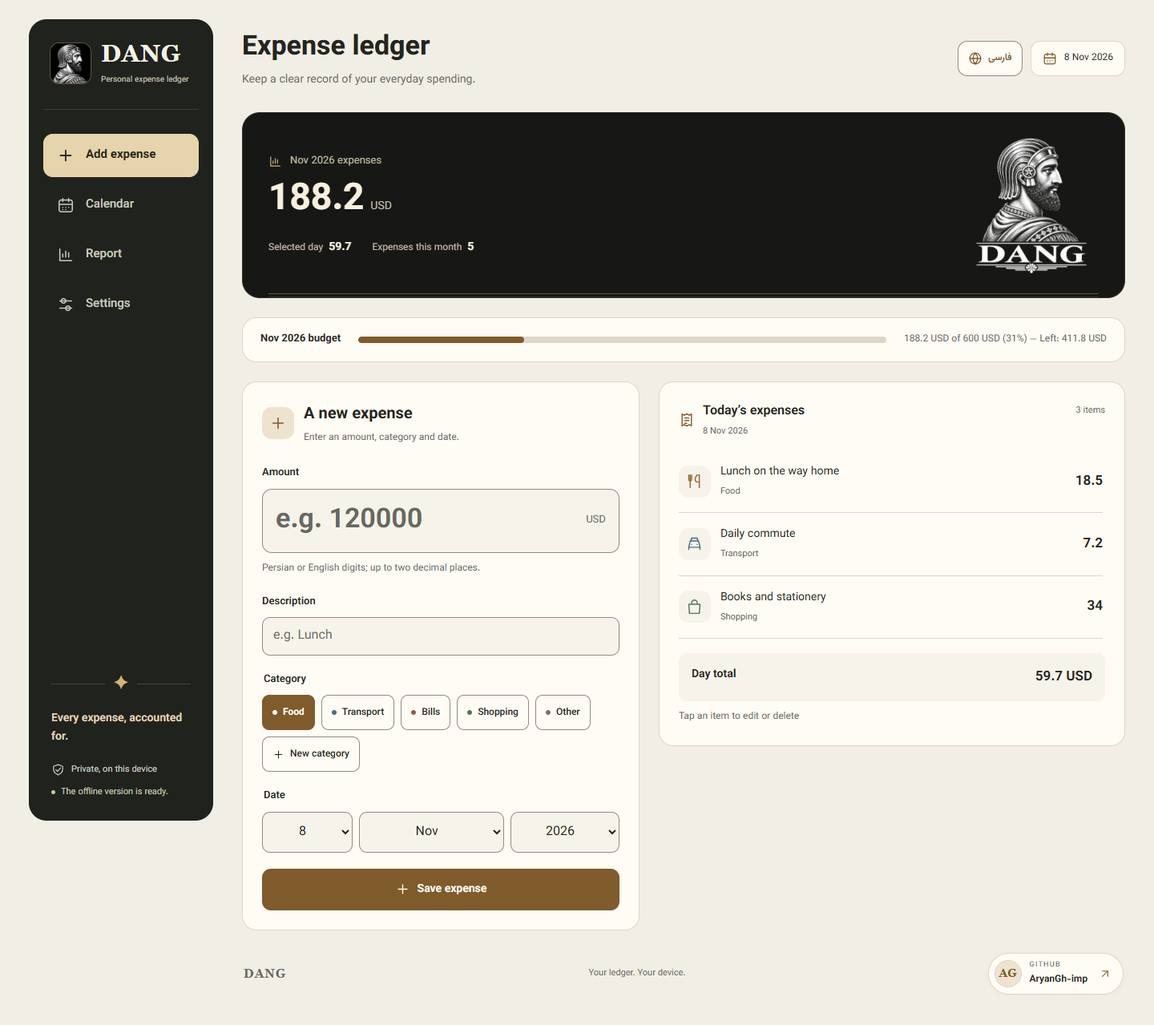
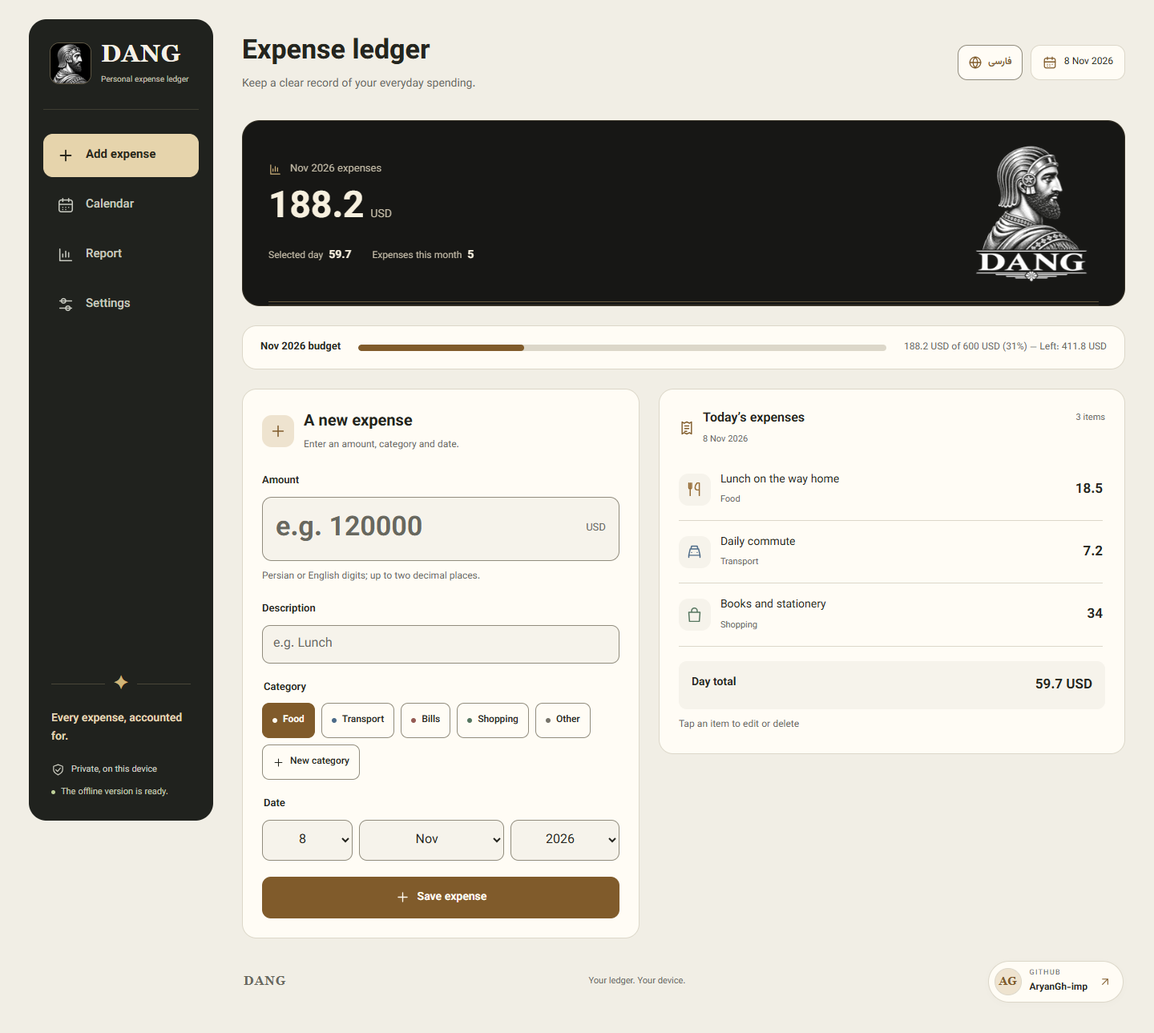
docs(release): document DANG 1.0.1 quality improvements and deployment
Refresh both README galleries and explain startup, responsive assets, privacy boundaries, test coverage, release gates, production verification and rollback. Preserve v1.0.0 history and database/backup compatibility.

diff --git a/docs/deployment.md b/docs/deployment.md
@@ -2,13 +2,13 @@
 
 ## Target and prerequisites
 
-Repository: [AryanGh-imp/DANG](https://github.com/AryanGh-imp/DANG). Maintainer: [AryanGh-imp](https://github.com/AryanGh-imp). Expected site URL: `https://aryangh-imp.github.io/DANG/`.
+Repository: [AryanGh-imp/DANG](https://github.com/AryanGh-imp/DANG). Maintainer: [AryanGh-imp](https://github.com/AryanGh-imp). Production site: `https://aryangh-imp.github.io/DANG/`.
 
-The first release is **1.0.0**, identified by the annotated Git tag `v1.0.0`. Release numbering is separate from the preserved internal storage and backup format versions.
+The current maintenance release is **1.0.1**, identified by the annotated Git tag `v1.0.1`. Preserve the first release's `v1.0.0` tag. Release numbering is separate from the unchanged internal storage and backup format versions.
 
-The project is prepared locally; a prepared checkout is not evidence of a successful hosted deployment. The first publication requires a reviewed push and GitHub Actions execution.
+A local build or push is not evidence of successful deployment. Check the Pages workflow conclusion and the actual hosted assets before announcing a release.
 
-Before the first deployment:
+Before a release:
 
 1. Review the local commit history and application preview.
 2. Confirm `origin` points to the intended repository and `main` is the release branch.
@@ -29,13 +29,28 @@ npm run test:pages
 git status --short
 ```
 
-When the maintainer is ready to publish, run `git push -u origin main`. This command is an explicit publication step; preparing documentation or committing locally does not perform it.
+Audit the entire diff and tracked content for private records, backups, credentials and local artifacts. The Cloudflare site token is an intended public identifier. Publish only after the checks pass; preserve failing results and document any target that is not met. A critical functional or security failure blocks publication.
 
-Publish the reviewed release tag separately with `git push origin v1.0.0`. The tag records the release commit; the Pages workflow deploys `main` rather than tag pushes.
+Commit the reviewed changes, then publish the annotated release tag and `main`:
+
+```sh
+git tag -a v1.0.1 -m "DANG v1.0.1 — Quality, Accessibility & Performance Improvements"
+git push origin main
+git push origin v1.0.1
+gh run list --workflow pages.yml --branch main
+```
+
+The tag must point to the final release commit. Pages deploys `main`, not tag pushes. Wait for the workflow to succeed and complete the production checks below before creating the GitHub Release:
+
+```sh
+gh release create v1.0.1 --verify-tag --title "DANG v1.0.1 — Quality, Accessibility & Performance Improvements" --notes-file RELEASE_NOTES_PATH
+```
+
+`RELEASE_NOTES_PATH` denotes a prepared file outside the published artifact. Notes should summarize actual changes, measured validation and known limitations; never claim dashboard ingestion without seeing it. Repository visibility is already public.
 
 ## Workflow structure
 
-`ci.yml` runs for pull requests, non-main branch pushes, manual runs, and reusable workflow calls. It checks static references, syntax, store behavior, and the release build. Chromium and WebKit browser jobs run after validation. Chromium also tests the assembled Pages artifact. Failed jobs retain diagnostic artifacts.
+`ci.yml` runs for pull requests, non-main branch pushes, manual runs, and reusable workflow calls. It checks static references, syntax, store behavior, and the release build. Chromium and WebKit browser jobs run after validation, including cold starts, WCAG 2.1 A label checks, optional analytics failure, and upgrades from the actual `v1.0.0` tag. Browser checkouts fetch release history. Ordinary tests isolate the beacon; dedicated integration tests use the unchanged official script with a local collector to avoid polluting production analytics. Chromium also tests the assembled Pages artifact. Failed jobs retain diagnostic artifacts.
 
 `pages.yml` runs for pushes to `main` and manual runs on `main`. It calls the reusable CI workflow, then assembles `dist/`, configures Pages, uploads the Pages artifact, and deploys it. Deployment waits for every validation and browser job to pass. Official actions are pinned to verified commit hashes with their release versions recorded in comments.
 
@@ -75,6 +90,16 @@ The canonical URL and sharing image in `index.html` target the Pages URL above. 
 ## Rollback
 
 Revert the faulty source commit on `main` and publish the revert through the same CI gate. The build fingerprint changes with the reverted content; keep the current update controller/build tooling when reverting a feature. For direct source deployments, give the worker a new source version. Preserve backup compatibility and test changes involving stored records before publication.
+
+Do not move a published tag or delete user storage to force a rollback. Existing installations receive the reverted release through the same update prompt. Keep the 1.0.1 display bootstrap if reverting unrelated features; its mirror is only a display hint and the database remains authoritative.
+
+## Production verification
+
+Verify HTTPS, the `/DANG/` canonical URL, `application-version` metadata and runtime file bytes against the final commit. Check that the hosted worker has the build fingerprint and registers with the `/DANG/` scope. Exercise English/Gregorian and Persian/Jalali, saved records, navigation, offline reload and reconnection in isolated profiles. Where possible, keep an isolated 1.0.0 session with synthetic records open across deployment and apply the downloaded update; confirm records, preferences and drafts survive.
+
+Run Lighthouse mobile and desktop against the assembled artifact or production, without analytics stubs or rendering instrumentation. Record performance, CLS and the other categories in the release QA report. A simulated mobile profile does not establish physical iPhone/Android installation behavior.
+
+Inspect the live beacon response and collector requests, including navigation and absence of synthetic financial markers. Query-only view navigation is tracked but Cloudflare strips query/hash from reported URLs, so views aggregate under `/DANG/`. Confirm authenticated dashboard visits separately; network acceptance alone does not establish dashboard ingestion. Blocked/offline analytics may produce a browser resource diagnostic but must never cause an application exception or prevent saving. See [privacy](privacy.md).
 
 ## Repository presentation
 

diff --git a/README.fa.md b/README.fa.md
@@ -4,7 +4,7 @@
 
 # DANG — دفتر هزینهها
 
-**اولین نسخهٔ پروژه: 1.0.0** · تگ Git: `v1.0.0`
+**نسخهٔ فعلی پروژه: 1.0.1** · تگ Git: `v1.0.1`
 
 [English README](README.md) · سازنده: [AryanGh-imp](https://github.com/AryanGh-imp) · [مخزن DANG](https://github.com/AryanGh-imp/DANG)
 
@@ -35,7 +35,7 @@ npm run serve
 
 سپس [نسخهٔ محلی](http://127.0.0.1:4173/Dang/) را باز کنید.
 
-برای GitHub Pages در Settings → Pages گزینهٔ Source: GitHub Actions را انتخاب کنید. پس از بررسی نهایی و پوش شاخهٔ `main`، workflow تستها را اجرا میکند و فقط خروجی `dist/` را منتشر میکند. مسیر هدف [سایت DANG](https://aryangh-imp.github.io/DANG/) است و پس از انتشار موفق فعال میشود. فایلهای توسعه، مثال پشتیبان و اطلاعات Git وارد خروجی انتشار نمیشوند. همهٔ مسیرهای داخلی برنامه نسبیاند.
+نسخهٔ آنلاین در [سایت DANG](https://aryangh-imp.github.io/DANG/) در دسترس است. برای انتشار روی GitHub Pages، گزینهٔ Settings → Pages → Source: GitHub Actions را انتخاب کنید. پس از پوش شاخهٔ `main`، workflow تستها را اجرا میکند و فقط خروجی `dist/` را منتشر میکند. فایلهای توسعه، مثال پشتیبان و اطلاعات Git وارد خروجی انتشار نمیشوند. همهٔ مسیرهای داخلی برنامه نسبیاند.
 
 ```sh
 npm run check
@@ -69,13 +69,17 @@ tests/                      بررسی رفتار و دسترسپذیری
 
 - دادهها در IndexedDB همین مرورگر و مخصوص مسیر این برنامه ذخیره میشوند. تراکنشها مانع بازنویسی آرایهٔ قدیمی از تب دیگر میشوند. ویرایش همزمان یک هزینه پیام تعارض میدهد.
 - در اولین اجرای نسخهٔ جدید، دادههای `expenses-v1` و `expenses-settings-v1` از localStorage منتقل میشوند. اصل دادههای قدیمی حذف نمیشود و نسخهٔ اصلی در تنظیمات قابل دانلود است. دادههای نامعتبر برای نمایش پاکسازی میشوند و اصل آنها برای بازیابی نگه داشته میشود.
-- پس از نمایش «نسخهٔ آفلاین آماده است»، صفحه بدون اینترنت نیز باز میشود. Service Worker فقط فایلهای همین پروژه را کش میکند؛ هیچ CDN یا درخواست شخص ثالث لازم نیست.
+- پس از نمایش «نسخهٔ آفلاین آماده است»، صفحه بدون اینترنت نیز باز میشود. Service Worker فقط فایلهای همین پروژه را کش میکند؛ اسکریپت آمارگیری در کش قرار ندارد و برای کارکرد برنامه لازم نیست.
 - برنامه در آغاز، هنگام بازگشت اینترنت یا بازگشت به صفحه و هر پنج دقیقه در صفحهٔ باز، نسخهٔ تازه را بررسی میکند. پس از دانلود کامل، دکمهٔ «بهروزرسانی برنامه» ظاهر میشود؛ با زدن آن، نسخهٔ جدید بدون نیاز به Ctrl+F5 باز میشود و هزینهها و تنظیمات ذخیرهشده حفظ میشوند. ورودی ناتمام یا پنجرهٔ ویرایش باز، بارگذاری مجدد را به تأخیر میاندازد؛ تبهای دیگر هم ناخواسته رفرش نمیشوند.
 - خروجی GitHub Pages از محتوای فایلهای منتشرشده شناسهٔ کش میسازد؛ تغییر ویژگیها بهصورت خودکار شناسهٔ تازه میگیرد. اگر فایلهای سورس را مستقیم برای توسعه سرو میکنید، `VERSION` در `sw.js` را هم تغییر دهید. کش برنامه از دادههای هزینه جداست.
 - ماندگاری دائمی تضمینشده نیست. حالت خصوصی، پاککردن دادههای سایت و سیاست مرورگر ممکن است داده را حذف کنند. دکمهٔ درخواست ماندگاری حافظه کمک میکند، ولی جای پشتیبان را نمیگیرد.
 - برای انتقال به دستگاه، مرورگر یا دامنهٔ سفارشی دیگر، فایل JSON پشتیبان را دانلود و در مقصد بازیابی کنید. دادهٔ دامنهها خودکار منتقل نمیشود.
 
 ## گزارش و پشتیبان
+
+نسخهٔ ۱٫۰٫۱ پرش چیدمان هنگام ورود را کاهش میدهد، تصویرها و آیکونهای سبکتر دارد و توضیحات صفحهخوان را در هر دو زبان هماهنگ میکند. برای نمایش سریع زبان و تم ذخیرهشده، یک نسخهٔ کمکی از تنظیمات نمایشی نگه داشته میشود؛ هزینهها همچنان در IndexedDB باقی میمانند.
+
+در حالت آنلاین، Cloudflare Web Analytics برای سنجش بازدید و عملکرد بارگذاری میشود. برنامه هزینهها، مبلغها، توضیحات، نام دستهها، بودجه و پشتیبانها را ارسال نمیکند. آمار شامل مسیر صفحه، معیارهای عملکرد و اطلاعات مرورگر/دستگاه است؛ نسخهٔ فعلی Beacon پارامترهای نشانی را حذف میکند و تغییر بخشها در همان مسیر برنامه ثبت میشود. مسدودبودن Analytics مانع استفاده یا کارکرد آفلاین نیست. جزئیات در [راهنمای حریم خصوصی](docs/privacy.md#cloudflare-web-analytics) آمده است.
 
 مبلغ مثبت با حداکثر دو رقم اعشار پذیرفته میشود؛ رقمهای فارسی، عربی و انگلیسی و جداکنندههای معتبر هزارگان پشتیبانی میشوند. واحد پول فقط برچسب است و مبلغها را تبدیل نمیکند.
 

diff --git a/docs/development.md b/docs/development.md
@@ -4,10 +4,12 @@
 
 - Node.js 26 LTS is the project baseline (`.nvmrc`); `package.json` requires Node.js 26 or newer. CI reads `.nvmrc` directly so its selected major version stays consistent with local development.
 - npm and the committed lockfile provide reproducible development dependencies.
-- Chrome or Playwright Chromium for the full browser suite; Playwright WebKit for Safari-engine design checks.
+- Chrome or Playwright Chromium and Playwright WebKit for independent functional, design, language, analytics and update suites.
 - Python 3 and Pillow only when regenerating brand images. They are not required to run or deploy DANG.
 
 Install dependencies with `npm ci`. Run the application using `npm run serve`, then open `http://127.0.0.1:4173/Dang/`. This URL preserves the established local development path. `/DANG/` is also available to reproduce the case-sensitive Pages path.
+
+Use a checkout that contains the `v1.0.0` tag when running the actual upgrade regression (`git fetch --tags` if needed). CI's browser checkout fetches the release history for this test.
 
 ## Commands
 
@@ -18,7 +20,7 @@ Install dependencies with `npm ci`. Run the application using `npm run serve`, t
 | `npm run check` | Validate JavaScript syntax, local references, release files, manifest icons, cache entries and sample backup |
 | `npm test` | Run storage, validation and release fingerprint tests |
 | `npm run test:e2e` | Run Chromium behavior, design and Pages-path tests |
-| `npm run test:webkit` | Run design, language and update behavior tests in WebKit |
+| `npm run test:webkit` | Run functional, design, language, analytics and update tests in WebKit |
 | `npm run build:pages` | Validate and assemble the allowlisted static release in `dist/` |
 | `npm run serve:pages` | Serve the assembled `dist/` artifact, default port 4173 |
 | `npm run test:pages` | Assemble and test the release artifact on port 4174 |
@@ -45,6 +47,18 @@ The language suite uses fresh English, Persian and unsupported-language contexts
 The update suite serves two isolated releases with long-lived HTTP-cache headers. It verifies the update banner, complete precaching, one-button activation, saved data, draft protection in requesting/other tabs and during delayed activation, offline activation, cache isolation and recovery from a missing release asset. Release fingerprint checks prove that runtime changes invalidate the cache without depending on a manual version edit.
 
 Preview capture creates `docs/previews/en/` with English/Gregorian data and `docs/previews/fa/` with Persian/Jalali data, including translated descriptions and localized currency labels. Mobile captures use a 390 × 844 viewport with `fullPage: false`; the main phone preview shows the calendar and asserts that fixed navigation remains at the bottom. Desktop, dark and report captures may include the full document. Review each language set visually after regenerating it.
+
+## Version 1.0.1 regressions and analytics
+
+`startup.spec.js` checks English/Persian cold starts while the application module is delayed, saved-language rendering, localized accessible descriptions, the credit link, malformed display hints and optional hint-write failures. Accessibility checks now include `wcag21a`, alongside the existing A/AA tags. Visible expense-row labels and compact calendar labels remain part of their accessible names.
+
+`upgrade.spec.js` serves the actual tagged v1.0.0 files followed by the current release with long-lived HTTP cache headers. It verifies protected drafts, retained records/custom settings/recovery data, new worker/cache identity and offline reload after activation. The existing multi-tab and incomplete-install update cases remain required.
+
+Ordinary functional tests use an empty optional analytics script through `fixtures.js` to avoid polluting the maintainer's dashboard. `analytics.spec.js` downloads the current official Cloudflare script, preserves its code and HTML token, and directs its collector to a real isolated HTTP server with correct CORS responses. It verifies history navigation, payload privacy with synthetic markers, and blocked-script/offline behavior. Only production checks against the real Cloudflare endpoint establish delivery; a mocked/local collector does not prove dashboard ingestion. Analytics integration tests require network access to fetch the official script.
+
+For performance, assemble `dist/`, serve it without test instrumentation, and run separate Lighthouse mobile and desktop profiles in fresh browser storage. Keep actual scores, CLS, first/large-content paint and raw reports; do not suppress the beacon or hide content to improve metrics. Compare with the v1.0.0 baseline (mobile performance 77 / CLS 0.437, desktop 75 / CLS 0.835). Targets are performance ≥90, CLS ≤0.1 and accessibility/best-practices/SEO 100. Report environmental variability or unmet targets explicitly.
+
+After deployment, compare runtime assets with the final Git commit, inspect the stamped worker and `/DANG/` scope, exercise both languages and offline recovery, inspect real analytics requests for private data, and verify workflow/release status. Dashboard ingestion requires authenticated dashboard evidence; report it as unverified when access is unavailable. Preserve original failing runs separately from corrected runs.
 
 ## Repository structure
 
@@ -78,4 +92,4 @@ python -m pip install Pillow
 python scripts/build-brand.py
 ```
 
-The script preserves the source emblem and derives the WebP, portrait icons, padded maskable icon, and social card. If the original root-level upload exists, it is moved only when the preserved destination does not already exist. See [NOTICE](../NOTICE) for artwork licensing.
+The script preserves the source emblem, creates 180/360/540-pixel WebP hero images and 64/128/192-pixel brand portraits, and optimizes PNG installation icons with 256-color palettes. It reports before/after bytes and RGB PSNR so visual changes can be reviewed. Alpha-aware quantization preserves transparency when present; the maskable/social canvases retain their intended backgrounds. If the original root-level upload exists, it is moved only when the preserved destination does not already exist. See [NOTICE](../NOTICE) for artwork licensing.

diff --git a/docs/architecture.md b/docs/architecture.md
@@ -7,6 +7,7 @@ DANG is a static application built with HTML, CSS, and browser-native JavaScript
 | File | Responsibility |
 | --- | --- |
 | `index.html` | Semantic application shell, navigation, forms, metadata, install links |
+| `bootstrap.js` | Pre-body display preferences and translated initial shell; early read-only access to existing preferences |
 | `app.js` | View state, date adapters, rendering, user actions, reports, exports, focus and synchronization |
 | `store.js` | Validation, normalizing legacy data, backup merges, IndexedDB transactions |
 | `i18n.js` | Persian/English labels, calendar month names and weekday labels |
@@ -34,7 +35,7 @@ flowchart LR
 
 The database name is `dang-expenses-v3:` followed by the application directory path. The database has version 1 and an object store named `data`. Its `state` record contains `{ v, rev, settings, items }`; the optional `recovery` record retains original migration or repair data. The record format version, database version, package version, and service-worker cache version serve different purposes.
 
-The application's first release is 1.0.0. The existing `v3` database namespace and backup format are compatibility identifiers retained to keep previously stored expenses available; they are not previous public application releases.
+The current maintenance release is 1.0.1; the first public release was 1.0.0. The existing `v3` database namespace and backup format are compatibility identifiers retained to keep previously stored expenses available. Version 1.0.1 makes no database or backup-schema migration.
 
 Every write reads the latest record inside an IndexedDB `readwrite` transaction, applies a synchronous operation, validates the result, increments the revision, and writes it back. IndexedDB serializes these transactions across tabs. Failed validation or writes abort the transaction; the UI does not report a successful save or clear its input on failure.
 
@@ -52,6 +53,14 @@ On first visit, `locale.js` selects the first Persian or English entry in `navig
 
 These preferences only seed database creation. Saved IndexedDB settings and valid legacy language/calendar choices take precedence. Legacy profiles without a calendar choice retain the original Jalali default. The global header control and Settings selector update the same language setting through the existing transaction flow. Switching preserves the current view, selected calendar, expense dates and expense draft; a failed write keeps the current language.
 
+## Initial rendering and accessibility
+
+The small classic `bootstrap.js` script runs in the head before the body is parsed. It establishes language/direction and theme from validated display hints or browser/legacy preferences. It starts a read-only lookup for existing IndexedDB profiles in parallel with CSS/font loading; an aborted first-time open creates no database. Initial shell translation attributes let its parser observer show the appropriate labels immediately. `app.js` disconnects the observer before taking over rendering.
+
+Successful state adoption refreshes the path-scoped display hint with `lang`, `cal`, `theme` and `hasBudget`. No financial records are copied into it. The hint is optional; database settings are authoritative, and restricted/malformed localStorage does not block startup. An old profile without a hint uses the early asynchronous database read; a browser that denies both storage mechanisms cannot provide persisted preferences before rendering.
+
+Date controls and category buttons have initial structure, the header has a stable minimum footprint, and the initial activity card reserves space while records load. Startup progress uses a non-displacing status notice. Both font subsets are preloaded; no blank-screen gate or artificial Lighthouse delay is used. Module dependencies load normally: `modulepreload` was rejected after the two-tab offline update regression demonstrated stale module reuse in WebKit. `applyLang` translates the expense summary's accessible name and emblem alternative text on every language change. The credit link relies on its visible GitHub/handle content for its accessible name.
+
 ## Views and navigation
 
 The four views are entry, calendar, report, and settings. The `view` query parameter records the selected view (`add`, `calendar`, `report`, or `settings`). The History API supports back/forward navigation without separate routed HTML pages. Expense dates are stored as Gregorian ISO date strings; display adapters provide Jalali or Gregorian presentation.
@@ -67,6 +76,10 @@ An initial worker activates normally. Later workers wait until a user selects Up
 Activation removes previous caches belonging to the same app path and claims clients. The requesting tab reloads once after its controller changes and activation completes. Other tabs retain loaded code and receive their own update notice. The app checks for pending writes, expense/backup/category/settings input and an open editor both before activation and before reloading. Unfinished work postpones the reload. A fully cached update can also be applied offline.
 
 Expense data lives separately in IndexedDB. `scripts/release-version.js` fingerprints the allowlisted source bytes and application version. The Pages build stamps this deterministic identity into the copied `dist/sw.js`, leaving source files untouched. Published runtime changes receive a new cache identity automatically; documentation-only changes keep it. Direct source-server development still uses the editable `VERSION` in `sw.js`. See [deployment](deployment.md).
+
+## Analytics boundary
+
+The exact official Cloudflare Web Analytics module appears once near the end of `index.html`. It is independent of the application module and is absent from the release precache. The application passes string URLs to the History API for compatibility with history-based trackers. The current beacon recognizes internal navigation, strips query/hash URL fields and aggregates views under the same path. It measures browser/performance telemetry, including structural selectors, without application-provided expense data. Offline and blocked-analytics paths are independently tested. See [privacy](privacy.md).
 
 ## Export boundary
 

diff --git a/README.md b/README.md
@@ -4,7 +4,7 @@
 
 # DANG — Personal Expense Ledger
 
-**First release: 1.0.0** · Git tag: `v1.0.0`
+**Current release: 1.0.1** · Git tag: `v1.0.1`
 
 A private, offline-first expense tracker that runs entirely in your browser. DANG combines Persian and English interfaces, Jalali and Gregorian calendars, reliable local storage, and a visual identity inspired by ancient Persian engraving, stone, and bronze.
 
@@ -12,7 +12,7 @@ A private, offline-first expense tracker that runs entirely in your browser. DAN
 
 Created and maintained by [AryanGh-imp](https://github.com/AryanGh-imp). Repository: [AryanGh-imp/DANG](https://github.com/AryanGh-imp/DANG).
 
-The configured deployment target is **[GitHub Pages](https://aryangh-imp.github.io/DANG/)**. The site becomes available after the repository is pushed and Pages deployment succeeds.
+Use DANG at **[aryangh-imp.github.io/DANG/](https://aryangh-imp.github.io/DANG/)**. See the [release history](CHANGELOG.md) for maintenance improvements.
 
 ## Features
 
@@ -22,12 +22,14 @@ The configured deployment target is **[GitHub Pages](https://aryangh-imp.github.
 - Filter reports by month or custom range, search descriptions and amounts, and track a monthly budget.
 - Export JSON backups, spreadsheet-compatible CSV, and reports through the browser's Print / Save as PDF flow.
 - Restore backups by merging expenses, preserving conflicting copies and optionally restoring settings.
-- Work offline after the application has prepared its cache. No account, backend, analytics, or runtime CDN is required.
+- Work offline after the application has prepared its cache. No account or backend is required; optional Cloudflare Web Analytics does not participate in startup or offline caching.
 - Use six coordinated light/dark themes or follow the device's appearance preference.
 - Use a desktop sidebar or mobile bottom navigation, with RTL/LTR layouts, visible keyboard focus, and safe-area spacing.
 - Start in your browser's first supported language (Persian or English), with English as the fallback. Switch at any time using the visible **English / فارسی** header button; your saved choice takes precedence on future visits.
 
 New profiles pair Persian with the Jalali calendar and English with Gregorian. Changing the interface language keeps your selected calendar, expenses, and current expense draft.
+
+Version 1.0.1 stabilizes the first render, serves smaller responsive branding images, and fixes English screen-reader descriptions and the GitHub link's accessible name. A small display-preference mirror helps show your saved language and theme immediately; IndexedDB remains the authoritative data store.
 
 Currency choices are labels, not exchange-rate conversions. Expenses remain on the current browser, origin, and application path; devices do not synchronize automatically.
 
@@ -80,7 +82,7 @@ The build copies an explicit set of application files into `dist/`; it does not 
 
 The Pages workflow validates the application, runs Chromium and WebKit checks, tests the assembled release, and uploads only `dist/`. Deployment requires all checks to succeed.
 
-Before the first deployment, select **Settings → Pages → Build and deployment → Source: GitHub Actions**. A push to `main`, or a manual Pages workflow run on `main`, then deploys the site. See the [deployment guide](docs/deployment.md) for the first-push checklist, workflow permissions, update behavior, and rollback instructions.
+For a new Pages setup, select **Settings → Pages → Build and deployment → Source: GitHub Actions**. A push to `main`, or a manual Pages workflow run on `main`, then deploys the site. See the [deployment guide](docs/deployment.md) for the release checklist, workflow permissions, production verification, update behavior, and rollback instructions.
 
 ## Updates
 
@@ -93,6 +95,8 @@ IndexedDB stores expense data in atomic transactions and protects against stale 
 Browser storage is not a permanent backup. Private browsing, clearing site data, browser eviction, or changing the domain/path can make data unavailable. Download JSON backups regularly and import them when moving to another browser, device, or origin. The persistent-storage request in Settings can help reduce eviction, but browsers decide whether to grant it.
 
 See [privacy and storage](docs/privacy.md), [backup format](docs/data-format.md), and [troubleshooting](docs/troubleshooting.md). Expense data and backups are not included in the release artifact.
+
+While online, the site loads Cloudflare Web Analytics to measure visits and performance. The application does not send expenses, amounts, descriptions, category names, budgets or backups. Cloudflare receives page/performance and browser/device telemetry; internal view changes are tracked as visits to the same application path, with query parameters omitted by the current beacon. Blocking analytics leaves the ledger fully usable. See the [analytics disclosure](docs/privacy.md#cloudflare-web-analytics).
 
 ## Documentation
 
@@ -113,4 +117,4 @@ See [privacy and storage](docs/privacy.md), [backup format](docs/data-format.md)
 
 Application source and project documentation are [MIT licensed](LICENSE). The locally hosted Vazirmatn font uses the [SIL Open Font License](assets/fonts/OFL-Vazirmatn.txt).
 
-The maintainer-supplied emblem is preserved as `assets/branding/dang-emblem.png`; its optimized image, favicons, Apple touch icon, maskable Android icon, and social image are generated by `scripts/build-brand.py`. Artwork reuse is separate from the software license. See [NOTICE](NOTICE) for attribution and licensing boundaries.
+The maintainer-supplied emblem is preserved as `assets/branding/dang-emblem.png`; responsive WebP images, small brand portraits, optimized PNG installation icons and the social image are generated by `scripts/build-brand.py`. Artwork reuse is separate from the software license. See [NOTICE](NOTICE) for attribution and licensing boundaries.

diff --git a/docs/privacy.md b/docs/privacy.md
@@ -1,6 +1,6 @@
 # Privacy and Browser Storage
 
-DANG has no account system, backend database, automatic synchronization, analytics, or runtime third-party CDN. Expenses, settings, and recovery records stay in IndexedDB on the current browser and application origin/path.
+DANG has no account system, backend expense database or automatic synchronization. Expenses, settings and recovery records stay in IndexedDB on the current browser and application origin/path. Version 1.0.1 adds optional Cloudflare Web Analytics for visits and performance.
 
 ## Network boundary
 
@@ -8,11 +8,23 @@ While online, the browser requests application files from the static hosting pro
 
 The maintainer credit is a normal external link. Opening it visits GitHub; it does not attach expense data. The link uses `noopener noreferrer` when opening a new tab. README reference links and repository workflows are separate from application runtime behavior.
 
+## Cloudflare Web Analytics
+
+The online page loads `https://static.cloudflareinsights.com/beacon.min.js` and the official beacon sends telemetry to `https://cloudflareinsights.com/cdn-cgi/rum`. The site token in HTML is an intended public analytics identifier, not a private API credential.
+
+The current beacon measures visits, browser/device details, navigation timing and Web Vitals. It may include structural element selectors and geometry for performance attribution. It removes query strings/fragments from transmitted page/referrer URLs. DANG's internal `?view=` changes generate navigation telemetry but are aggregated under the same application path; the default snippet does not expose a separate section name in the dashboard.
+
+DANG does not pass expense records, amounts, descriptions, category names, budgets, currency labels or backup contents to analytics. Dedicated tests exercise these fields with recognizable synthetic values and inspect the current official beacon's payloads. The provider script runs in the page context and is delivered by Cloudflare; the integration relies on that provider and should be retested when its behavior changes. See [Cloudflare Web Analytics](https://www.cloudflare.com/web-analytics/) for the provider's privacy description.
+
+Analytics does not initialize the application, read its store through an application API, or participate in service-worker precaching. Blocking it or losing connectivity does not prevent local saving, reports, recovery or offline use. A browser may show a failed-resource diagnostic for an unavailable optional script; there are no required analytics calls in the application initialization path.
+
 ## Storage lifetime
 
 IndexedDB is durable browser storage, not a guaranteed permanent backup. Data can disappear when site data is cleared, a private-browsing session ends, a browser profile is removed, or the browser evicts storage. Settings includes a request for persistent storage; approval depends on the browser.
 
 The service-worker cache contains application files, not the expense database. Updating or replacing that cache does not delete expenses. Clearing all site data can remove both. Different browsers, devices, hosts, and application paths have separate storage contexts.
+
+The path-scoped `dang-display:<path>` localStorage entry contains only language, calendar, theme and a boolean indicating whether a budget is configured. It helps avoid a first-render language/theme flash. It contains no expenses, amounts, descriptions, category definitions or backups; IndexedDB settings remain authoritative. Failure to write this hint does not fail a saved expense transaction.
 
 Local data is not encrypted by DANG and there is no application password. Someone with access to the same browser profile can access the ledger. Device and browser-profile protections determine local access.
 

diff --git a/docs/design-system.md b/docs/design-system.md
@@ -33,11 +33,13 @@ CSS custom properties in `assets/css/styles.css` define surfaces, text, borders,
 
 Normal text targets a contrast ratio of at least 4.5:1. Main controls target at least 44 × 44 CSS pixels. Narrow calendar cells retain a height of at least 44 pixels and a width above the WCAG AA minimum of 24 pixels; neighboring targets must not overlap.
 
-The automated design suite checks all seven theme choices across all four views with axe, plus the editing dialog. Responsive checks cover widths from 320 to 1440 pixels, landscape phones, RTL/LTR, long descriptions, long category names, and large amounts. Chromium and WebKit are tested independently. These checks supplement visual review; they do not constitute an exhaustive accessibility audit or hardware certification.
+The automated design suite checks all seven theme choices across all four views with axe, plus the editing dialog. Its rules include `wcag2a`, `wcag2aa`, `wcag21a`, `wcag21aa` and `wcag22aa`; Label in Name is included. The credit and expense rows use their visible content for their accessible names. Calendar labels include the displayed compact amount as well as the full date/amount. The summary and emblem descriptions follow the selected language. Responsive checks cover widths from 320 to 1440 pixels, landscape phones, RTL/LTR, long descriptions, long category names, and large amounts. Chromium and WebKit are tested independently. These checks supplement visual review; they do not constitute an exhaustive accessibility audit or hardware certification.
 
 ## Assets
 
-`assets/branding/dang-emblem.png` preserves the supplied image. The WebP derivative reduces display payload; portrait crops are used for small application icons so the lettering does not become unreadable. The maskable variant pads the artwork within a safe area. `scripts/build-brand.py` regenerates derivatives using Python and Pillow.
+`assets/branding/dang-emblem.png` preserves the supplied image. The hero uses 180/360/540-pixel WebP candidates selected through `srcset`/`sizes`; brand portraits use 64/128/192-pixel WebP candidates. Installation icons retain the required PNG dimensions and use high-fidelity 256-color palettes. The maskable variant pads the portrait within a safe area. `scripts/build-brand.py` regenerates derivatives with Python/Pillow and prints size/PSNR comparisons. Review detailed engraving edges and transparency after regeneration.
+
+Initial labels, date controls, category buttons and loading cards provide useful content before the application module finishes. Header spacing is stable across supported languages, font subsets are preloaded, and startup progress does not displace the main content. The application does not hide the page while loading to reduce layout-shift scores.
 
 Screenshots in `docs/previews/en/` use English, Gregorian dates and English sample descriptions; `docs/previews/fa/` uses Persian and Jalali dates. Phone screenshots capture a real 390 × 844 viewport so fixed navigation stays at the bottom of the image. The main mobile preview shows the calendar; entry, desktop, dark and report previews are also generated in isolated contexts. Original artwork and font licensing are documented in [NOTICE](../NOTICE).
 

diff --git a/CHANGELOG.md b/CHANGELOG.md
@@ -2,7 +2,25 @@
 
 Release versions describe application changes; database format and service-worker cache versions are maintained separately.
 
-## 1.0.0 — 2026-11-08
+## 1.0.1 — 2026-11-09
+
+### Quality and performance
+
+- Establish language/direction and theme before body rendering, with a path-scoped display-preference mirror and an early read for existing profiles.
+- Populate translated initial shell labels, reserve date/category/content space, preload both local font subsets, and keep the startup notice out of normal layout flow.
+- Generate responsive 180/360/540-pixel hero images and small WebP brand portraits; optimize PNG installation icons with high-fidelity palettes while preserving the original emblem.
+- Translate expense-summary and emblem descriptions in both languages, match the GitHub credit's accessible name to its visible text, and include WCAG 2.1 Level A rules in automated checks.
+
+### Analytics, compatibility and documentation
+
+- Integrate the official Cloudflare Web Analytics module with the maintainer's public site token. Analytics is independent of initialization and offline caching; financial data is excluded from the exercised telemetry payloads.
+- Use string URLs for History API navigation, including compatibility with analytics history wrappers.
+- Add cold-start, saved-preference, accessibility, analytics/privacy and actual v1.0.0-to-v1.0.1 upgrade regressions; extend WebKit coverage to functional and deployment behavior.
+- Keep module loading free of `modulepreload` after a WebKit regression showed that a second tab could reuse the previous release's module after an offline update.
+- Isolate ordinary functional tests from the real analytics dashboard; integration tests use the current official script and a real temporary collector.
+- Update both READMEs and the architecture, privacy, design, testing, deployment, security and contribution guidance. Keep database version 1, stored format 3 and backup format 3 unchanged.
+
+## 1.0.0 — 2026-11-09
 
 Initial project release.
 
@@ -34,4 +52,4 @@ Initial project release.
 - Aligned development and CI with Node.js 26 LTS using `.nvmrc` as the shared version selector.
 - Organized the initial source history into meaningful module and documentation commits.
 
-This entry records local release preparation. Publication occurs only after a reviewed push and successful Pages workflow run.
+The first public release was published on November 9, 2026 as [v1.0.0](https://github.com/AryanGh-imp/DANG/releases/tag/v1.0.0).

diff --git a/docs/troubleshooting.md b/docs/troubleshooting.md
@@ -34,6 +34,14 @@ Confirm the Pages workflow succeeded and deployed the fingerprinted `dist/` outp
 
 PDF export opens a print preview. Use the browser's Print dialog and choose Save as PDF, or the platform's equivalent. On mobile, available print/share destinations depend on the OS. Keep the preview open and use its Print control if the first print call was blocked. Clipboard export requires browser permission and a supported secure context; downloading JSON or CSV remains an alternative.
 
+## Cloudflare Analytics is blocked or the dashboard has no visits
+
+The ledger remains usable when the optional beacon is blocked or offline. Browser-generated failed-resource messages can describe this optional request; they are different from application exceptions or failed expense saves. Confirm the live HTML includes one official script with the intended public site token, then inspect actual requests to `cloudflareinsights.com/cdn-cgi/rum`. Ad blockers, network restrictions and dashboard ingestion delays can affect analytics.
+
+The current beacon strips query parameters, so internal `?view=` changes appear under the same application path rather than as individually named sections. A successful collector request does not by itself prove that data has appeared in the authenticated dashboard. Check the correct site and time range there before claiming ingestion. See [privacy](privacy.md).
+
+The provider's collector can reject a localhost origin that includes a development port with a CORS mismatch. This may lower a local Lighthouse Best Practices score despite a working ledger. Verify delivery on the configured HTTPS production origin; do not disable the beacon or weaken browser security to hide the local diagnostic.
+
 ## Browser tests cannot launch
 
 Run `npx playwright install chromium webkit`. On Linux use `--with-deps` to install required system libraries. The Windows Chromium config uses installed Google Chrome at its standard path when available. Close only the server you own when 4173 or 4174 is already in use; do not terminate unrelated Node processes.

diff --git a/CONTRIBUTING.md b/CONTRIBUTING.md
@@ -24,4 +24,6 @@ Keep pull requests focused. Describe changes for a reviewer who has not seen the
 
 Never include personal backups, browser profiles, tokens, or real financial data in issues, screenshots, tests, or commits. Use [SECURITY.md](SECURITY.md) for sensitive vulnerability reports. Preserve migration/recovery behavior and document any schema changes before implementation.
 
+The documented Cloudflare site token is an intentionally public identifier, not an authentication secret. Do not add private Cloudflare API credentials. Ordinary tests isolate telemetry from the real dashboard; integration tests use the official script with a temporary collector. Analytics changes must preserve offline operation and demonstrate that financial fields are absent from outbound payloads. Include WCAG 2.1 Level A checks and cold/saved-language starts when changing labels or initialization.
+
 Contributed source and documentation are distributed under the project's MIT license. Third-party files retain their own licenses; record new dependencies or assets in [NOTICE](NOTICE). The brand artwork has separate reuse terms.

diff --git a/SECURITY.md b/SECURITY.md
@@ -19,3 +19,5 @@ DANG runs on a static host and stores data locally. It escapes user-provided rep
 Local storage is not application-encrypted. A compromised device/browser profile or malicious code executing on the hosting origin is outside that local confidentiality boundary. Export backups regularly and keep the hosting repository and workflow permissions protected.
 
 See [privacy](docs/privacy.md) for data handling and [architecture](docs/architecture.md) for transaction and cache behavior.
+
+Version 1.0.1 permits the official Cloudflare analytics script and collector as an optional runtime dependency. Its public site token is intentionally visible. Expense data is not provided to analytics; tests inspect current beacon payloads for synthetic financial markers. Changes to analytics must retain this boundary and offline independence. The optional local display hint contains only validated presentation preferences; it does not replace IndexedDB or hold financial records.
